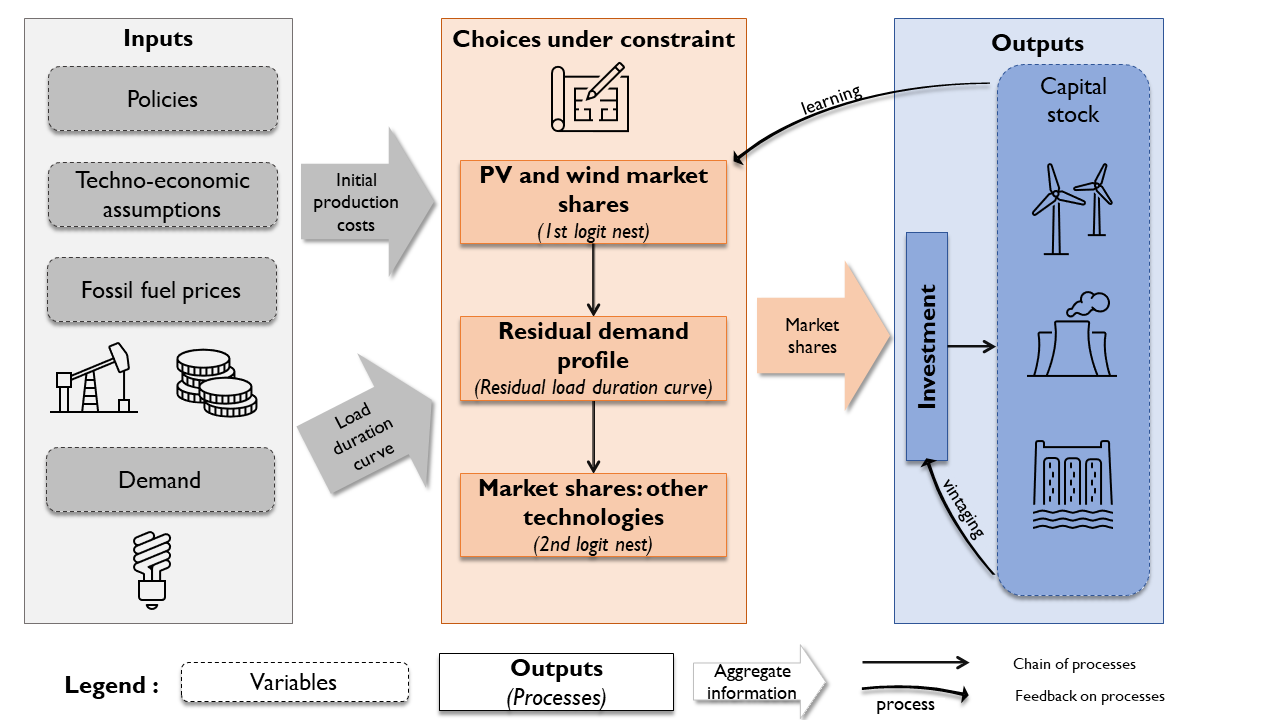
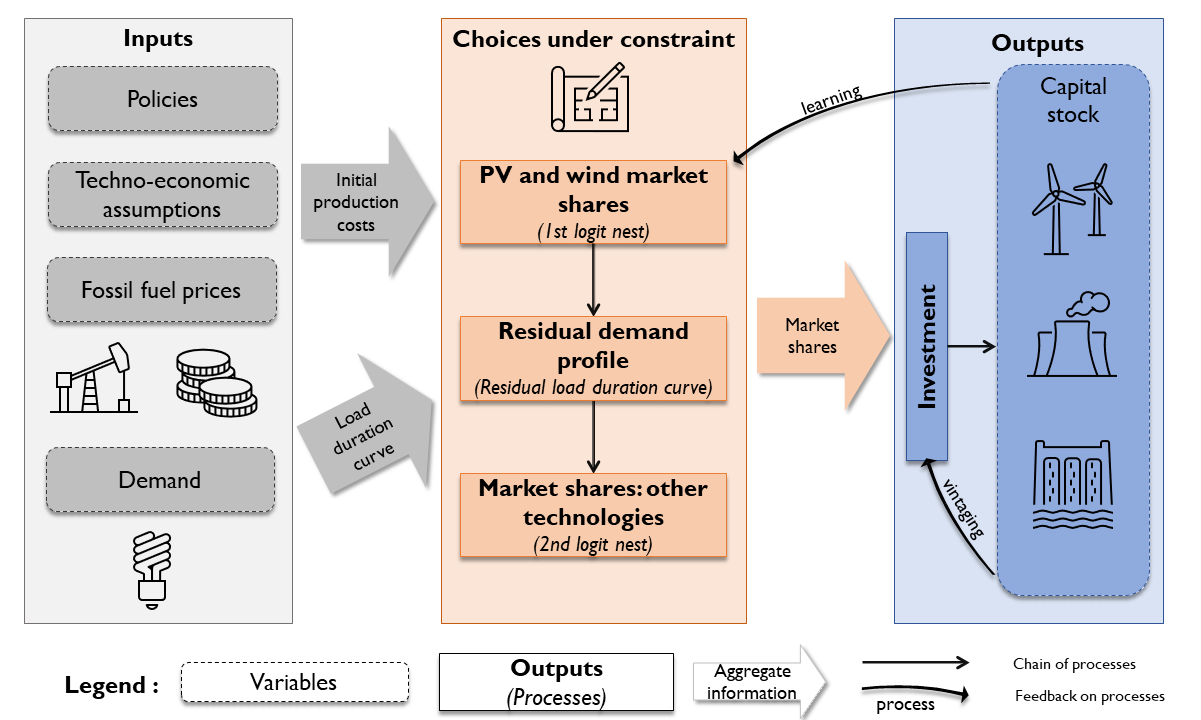
Centering the summary pic (needed to curtail the pic))

diff --git a/nexus_elec.tex b/nexus_elec.tex
@@ -3,8 +3,7 @@
 IMACLIM-R is a twelve region, recursive, hybrid general equilibrium model that includes a technology-rich, bottom-up energy sector.  The long term investment decision is represented by a multinomial logit structure in which 20 explicit technologies compete based on the most up-to-date electricity generation costs. The cost competition takes place under imperfect foresight and with different possible regimes of beliefs about future climate policy. The key features of the electricity supply are represented: capital vintaging, fuel efficiency, utilization rate, carbon capture and storage, renewable energy integration challenges.  Both investment and dispatch decisions are made on an annual basis, from the model's base year (2014) to 2100 to provide meaningful insights into future electricity systems, their contribution to climate change mitigation and their linkages with the rest of the economy.
 
 \begin{figure}[H]
-    \includegraphics[scale=0.45]{figures&tables/Summary_nexus.png}
-    \centering
+    \centerline{\includegraphics[scale=0.55]{figures&tables/Summary_nexus.png}} %not bad for centering!!
     \caption{Summary of the investment procedure in the power sector}
     \label{fig:suminv}
 \end{figure}
